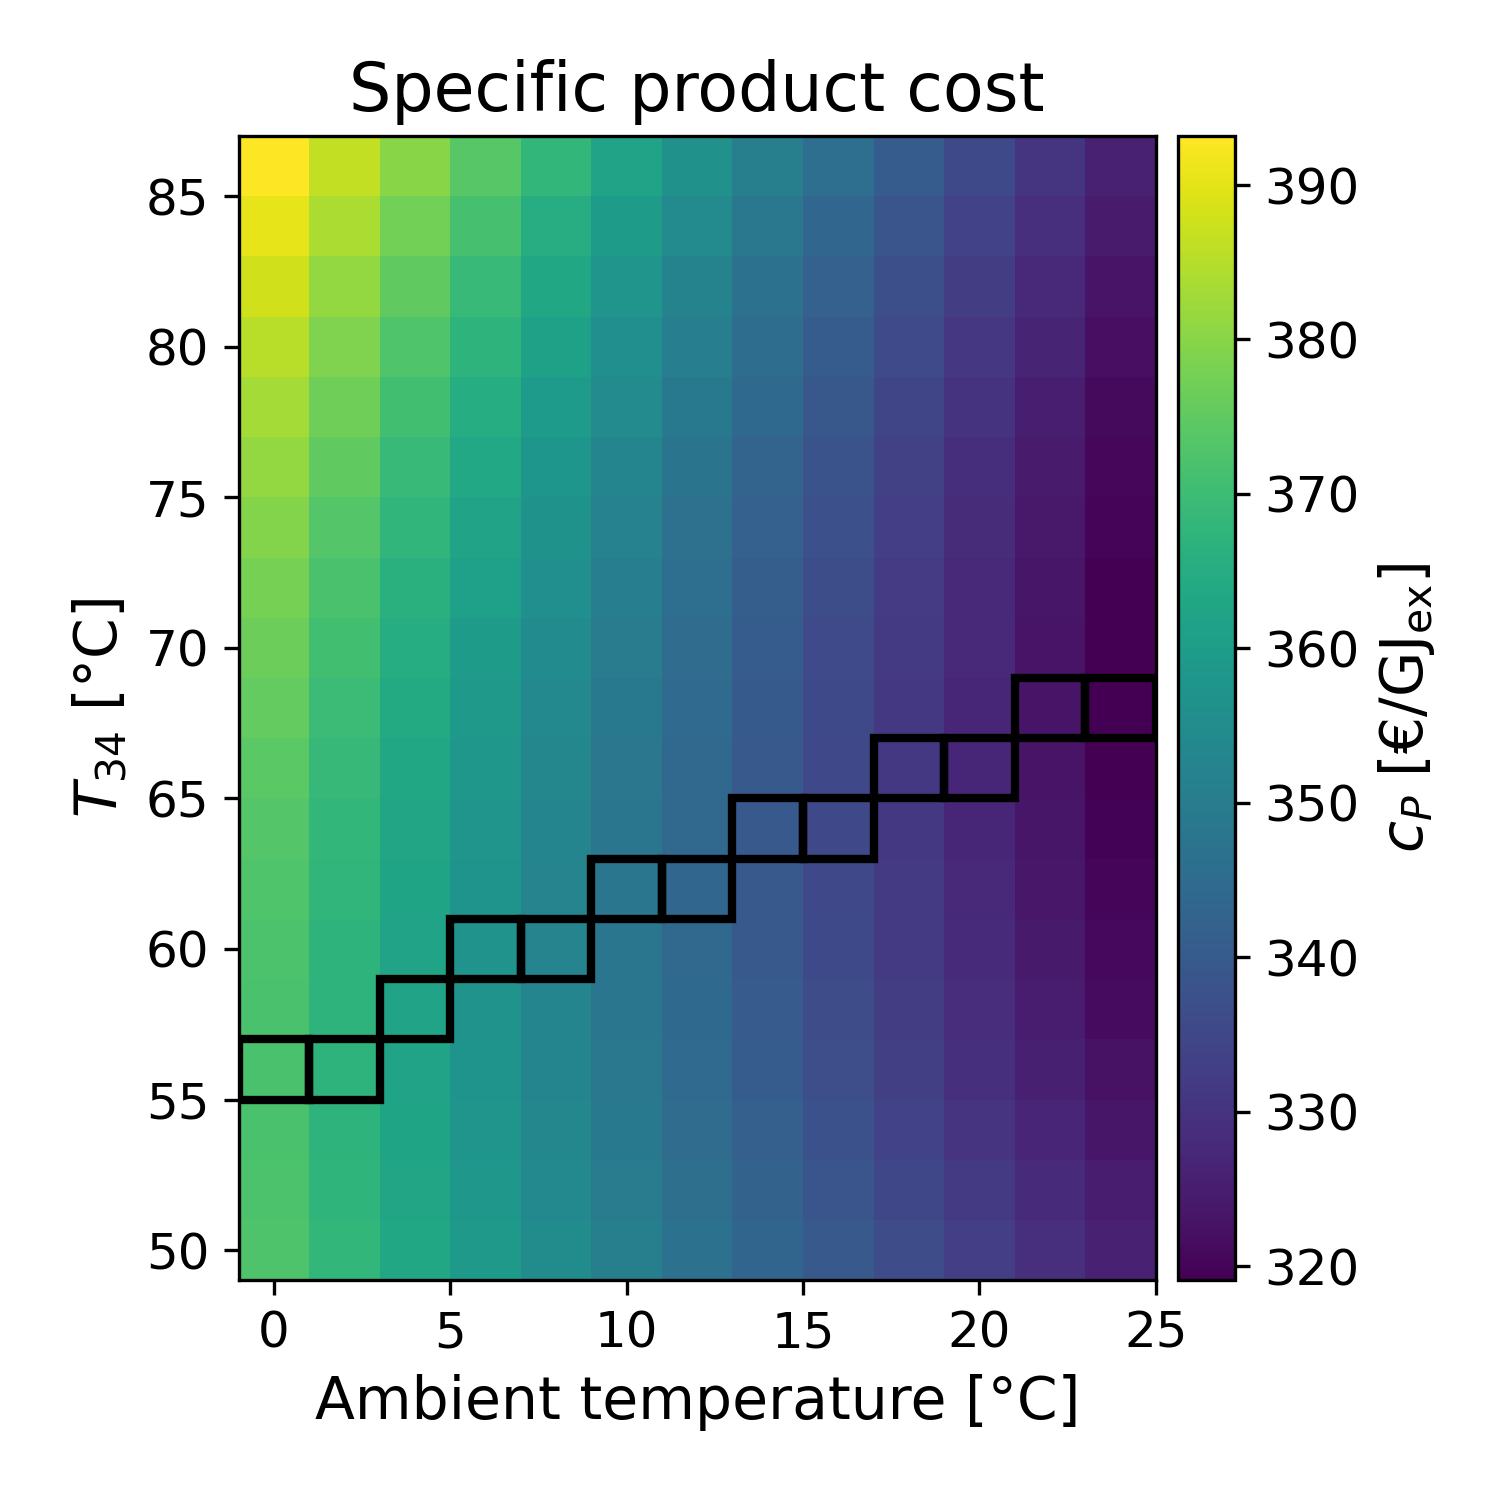
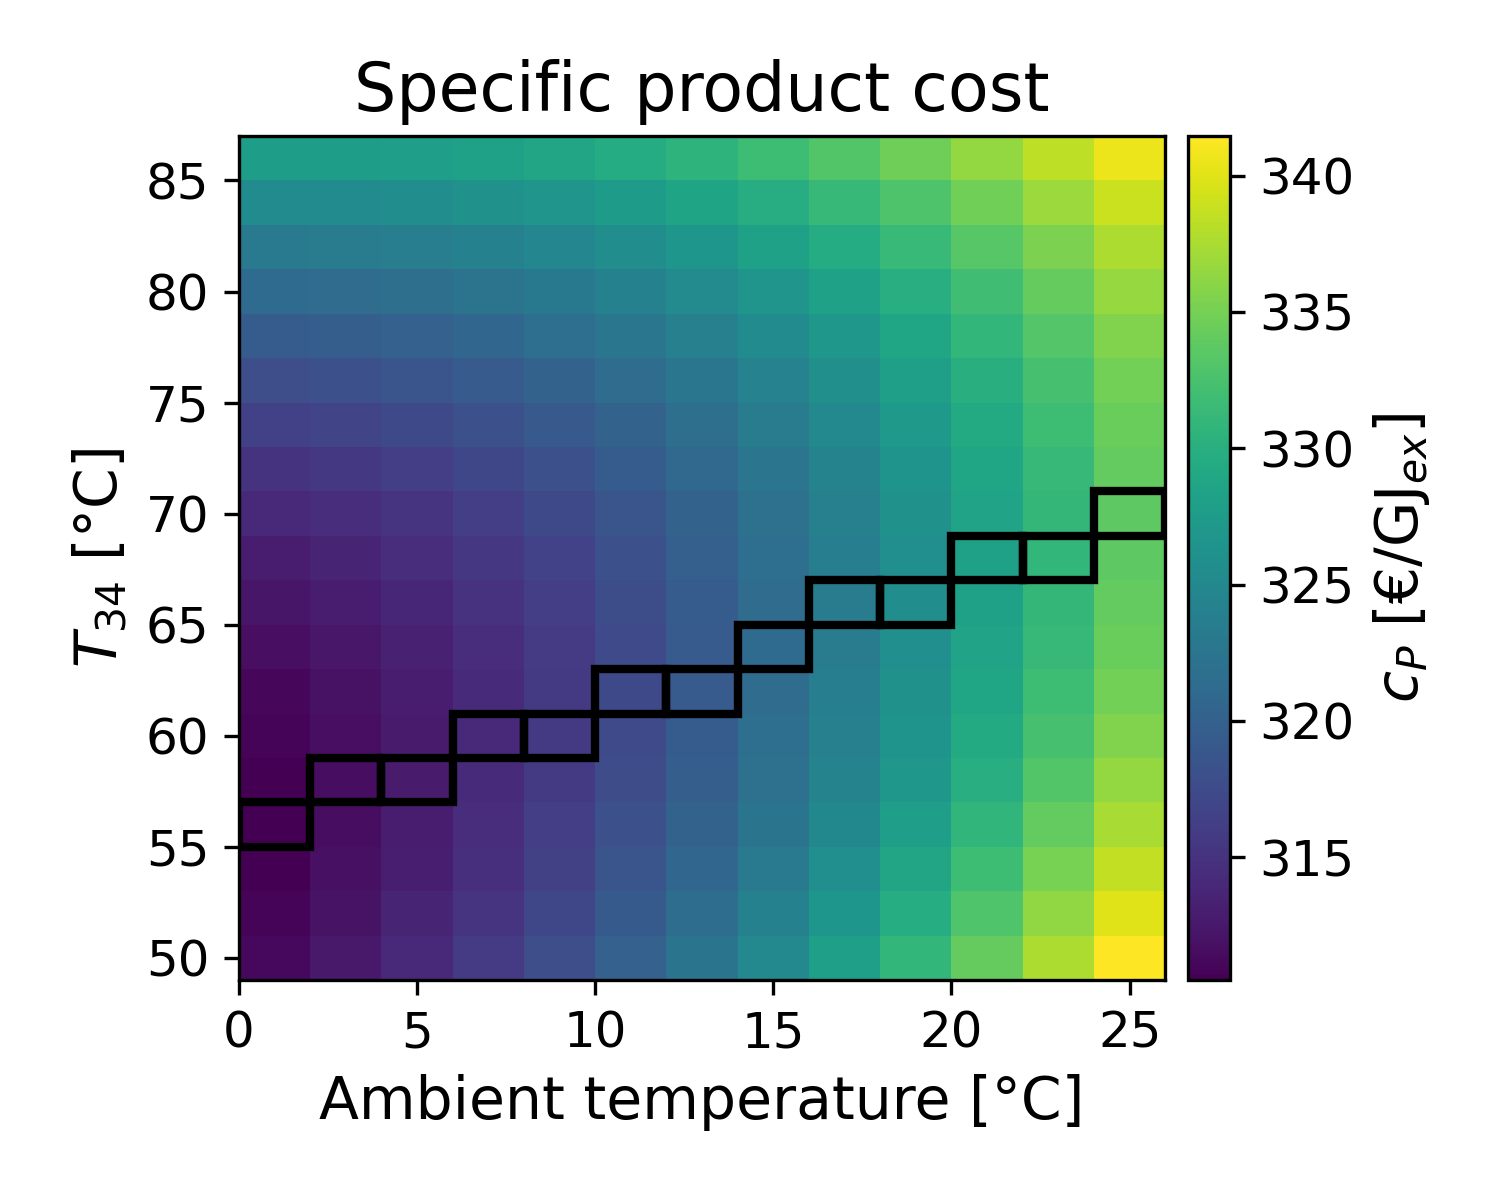
Feat: more plots for hightemp_hp

diff --git a/examples/hightemp_hp/hp_cascade_tespy.py b/examples/hightemp_hp/hp_cascade_tespy.py
@@ -34,13 +34,13 @@ mpl.rcParams['figure.titlesize']   = 18   # figure suptitle, if used
 component_colors = {
     # compressors (blue tones)
     "COMP1":      "#118cff",
-    "COMP2":      "#8bbeec",
+    "COMP2":      "#118cff",
     # motors (cyan tones)
     "MOT1":       "#ceb200",
-    "MOT2":       "#f5e57b",
+    "MOT2":       "#ceb200",
     # valves (orange tones)
     "VAL1":       "#009c63",
-    "VAL2":       "#73d4b1",
+    "VAL2":       "#009c63",
     # heat exchangers (green/red tones)
     "AIR_HX":     "#d3291d",
     "IHX":        "#e44f44",
@@ -48,7 +48,7 @@ component_colors = {
 }
 
 
-def run_exergoeco_analysis(elec_price_cent_kWh, tau, i_eff, print_results=False, **kwargs):
+def run_exergoeco_analysis(elec_price_cent_kWh, tau, i_eff, Tamb, print_results=False, **kwargs):
     """
     Reload the exergy analysis from the JSON file, calculate PEC (with cost correction),
     multiply PEC by 6.32 to obtain the Total Capital Investment (TCI), and run economic
@@ -64,7 +64,7 @@ def run_exergoeco_analysis(elec_price_cent_kWh, tau, i_eff, print_results=False,
         Full load hours (hours/year).
     """
     # Reload a virgin exergy analysis.
-    ean = ExergyAnalysis.from_tespy(nw, T0, p0, split_physical_exergy=True)
+    ean = ExergyAnalysis.from_tespy(nw, Tamb+273.15, pamb*1e5, split_physical_exergy=True)
 
     # Define exergy streams.
 
@@ -335,11 +335,11 @@ print("COP1 = ", round(COP1, 3))
 print("COP2 = ", round(COP2, 3))
 
 # assert convergence of calculation
-nw._convergence_check()
+# nw._convergence_check()
 
 # ambient conditions
-p0 = c11.p.val * 1e5
-T0 = c11.T.val + 273.15
+pamb = c11.p.val
+Tamb = c11.T.val
 
 # economic parameters
 # Define the CEPCI values for cost correction.
@@ -380,11 +380,12 @@ loss = {
 ####################################################
 
 # define range of evaporator outlet temperatures T34 [°C]
-SENS_VAR    = 'T34' # e.g. 'T34', 'tau', 'i_eff', 'elec_price', 'ambient temperature'
+SENS_VAR    = r'$T_{34}$' # e.g. f'T_{34}', 'tau', 'i_eff', 'elec_price', 'ambient temperature'
+SENS_VAR_savefig = 'T34'  # e.g. 'T34', 'tau', 'i_eff', 'elec_price', 'ambient temperature'
 SENS_VALUES = np.arange(50, 81, 2)  # the array of values you want to sweep
 
 def apply_sensitivity(var_name, value):
-    if var_name == 'T34':
+    if var_name == r'$T_{34}$':
         c34.set_attr(T=value)
     elif var_name == 'ambient temperature':
         c11.set_attr(T=value)
@@ -409,7 +410,8 @@ def run_sensitivity_analysis(var_name, values):
             elec_price_cent_kWh=default_elec_price,
             tau=default_tau,
             n=n,
-            i_eff=i_eff
+            i_eff=i_eff,
+            Tamb=Tamb,
         )
         # map our sensitivity keys to function args
         if 'elec_price' in extra_pars:
@@ -426,7 +428,7 @@ def run_sensitivity_analysis(var_name, values):
         COP   = c42.m.val * (c42.h.val - c41.h.val) / (power_input.P.val * 1e-3)
         COP2  = c42.m.val * (c42.h.val - c41.h.val) / (comp2.P.val     * 1e-3)
         COP1  = c31.m.val * (c31.h.val - c34.h.val) / (comp1.P.val     * 1e-3)
-        ean   = ExergyAnalysis.from_tespy(nw, T0, p0, split_physical_exergy=True)
+        ean   = ExergyAnalysis.from_tespy(nw, Tamb+273.15, pamb*1e5, split_physical_exergy=True)
         ean.analyse(E_F=fuel, E_P=product, E_L=loss)
         eps   = ean.epsilon
         EF_tot, EP_tot, EL_tot = ean.E_F, ean.E_P, ean.E_L
@@ -479,7 +481,7 @@ df = run_sensitivity_analysis(SENS_VAR, SENS_VALUES)
 # 3. Plots of Results
 #####################
 
-unit = {'T34':'[°C]', 'ambient temperature':'[°C]', 'tau':'[h/a]', 'i_eff':'[%/a]', 'elec_price':'[cent/kWh]'}[SENS_VAR]
+unit = {r'$T_{34}$':'[°C]', 'ambient temperature':'[°C]', 'tau':'[h/a]', 'i_eff':'[%/a]', 'elec_price':'[cent/kWh]'}[SENS_VAR]
 
 # 1. Interactive Plotly Line Chart
 
@@ -533,7 +535,7 @@ plt.ylabel(r'$\dot{Z}_{\text{tot}}/E_{P,\text{tot}}$ [€/GJ$_\mathrm{ex}$]')
 plt.title('Normalized investmenet costs and exergy destruction')
 plt.grid(True)
 plt.tight_layout()
-plt.savefig(f"examples/hightemp_hp/plots/plot_normalized_scatter_{SENS_VAR}.png", dpi=300)
+plt.savefig(f"examples/hightemp_hp/plots/plot_normalized_scatter_{SENS_VAR_savefig}.png", dpi=300)
 
 
 # 3. Stacked Bar Chart: Z per Component + COP Overlay
@@ -603,7 +605,7 @@ ax1.legend(
 )
 
 plt.tight_layout()
-plt.savefig(f"examples/hightemp_hp/plots/plot_investment_columns_{SENS_VAR}.png", dpi=300)
+plt.savefig(f"examples/hightemp_hp/plots/plot_investment_columns_{SENS_VAR_savefig}.png", dpi=300)
 
 
 # 4. 5×1 Vertical Multipanel: TCI & Metrics
@@ -617,25 +619,26 @@ cop1 = df["COP1"]
 cop2 = df["COP2"]
 cP_tot  = df["c_P"]
 zdz_tot = df["C_D+Z_EURperh_TOT"]  # combined Z + cost destruction
+epsilon = df["epsilon"]
 
 fig, axs = plt.subplots(5, 1, sharex=True, figsize=(5, 14))
 
-# (1) Investment costs of compressors
-axs[0].plot(t, tci1, marker="o", label="COMP1", color=component_colors["COMP1"])
-axs[0].plot(t, tci2, marker="s", label="COMP2", color=component_colors["COMP2"])
+# (1) Total investment cost
+axs[0].plot(t, tci_tot, marker="o", color='black')
 axs[0].set_ylabel("TCI [M€]")
-axs[0].set_title("Investment costs of the compressors")
-axs[0].legend(loc="best")
-min_val = min(tci1.min(), tci2.min())
-max_val = max(tci1.max(), tci2.max())
-axs[0].set_ylim(min_val * 0.95, max_val * 1.05)
+axs[0].set_title("Total capital investment")
+axs[0].set_ylim(tci_tot.min() * 0.99, tci_tot.max() * 1.01)
 axs[0].grid(True)
 
-# (2) Total investment cost
-axs[1].plot(t, tci_tot, marker="o", color='black')
+# (2) Investment costs of compressors
+axs[1].plot(t, tci1, marker="o", label="COMP1", color=component_colors["COMP1"])
+axs[1].plot(t, tci2, marker="s", label="COMP2", color=component_colors["COMP2"])
 axs[1].set_ylabel("TCI [M€]")
-axs[1].set_title("Total capital investment")
-axs[1].set_ylim(tci_tot.min() * 0.99, tci_tot.max() * 1.01)
+axs[1].set_title("Investment costs of the compressors")
+axs[1].legend(loc="best")
+min_val = min(tci1.min(), tci2.min())
+max_val = max(tci1.max(), tci2.max())
+axs[1].set_ylim(min_val * 0.95, max_val * 1.05)
 axs[1].grid(True)
 
 # (3) Exergetic efficiency (%)
@@ -655,10 +658,10 @@ axs[3].set_ylabel(r"$c_P$ [€/GJ$_\mathrm{ex}$]")
 axs[3].set_title("Specific product cost")
 axs[3].grid(True)
 
-# (5) Combined Z + cost destruction
-axs[4].plot(t, zdz_tot, marker="o", color='black')
-axs[4].set_ylabel(r"$\dot{Z} + \dot{C}_D$ [€/h]")
-axs[4].set_title(r"$\dot{Z} + \dot{C}_D$ of the system")
+# (5) epsilon
+axs[4].plot(t, epsilon*100, marker="o", color='black')
+axs[4].set_ylabel(r"$\varepsilon$ [%]")
+axs[4].set_title(r"Exergetic efficiency")
 axs[4].grid(True)
 
 # shared x-axis label with LaTeX subscript and degree symbol
@@ -666,7 +669,7 @@ axs[4].set_xlabel(f"{SENS_VAR} {unit}")
 axs[4].tick_params(axis="x", rotation=0)
 
 plt.tight_layout()
-plt.savefig(f"examples/hightemp_hp/plots/plot_multiplot_{SENS_VAR}.png", dpi=300)
+plt.savefig(f"examples/hightemp_hp/plots/plot_multiplot_{SENS_VAR_savefig}.png", dpi=300)
 
 
 # 5. Bar Chart of Exergy Destruction + ε Overlay
@@ -736,20 +739,20 @@ ax1.legend(
 )
 
 plt.tight_layout()
-plt.savefig(f"examples/hightemp_hp/plots/plot_ed_columns_{SENS_VAR}.png", dpi=300)
+plt.savefig(f"examples/hightemp_hp/plots/plot_ed_columns_{SENS_VAR_savefig}.png", dpi=300)
 
 
 '''# 6. Double‐Variable Sensitivity: ambient temperature vs. T34 c_P
 
 # define the two ranges (you can adjust the step or limits as desired)
-amb_range  = np.arange(0, 25, 2)   # ambient temperature [°C]
+amb_range  = np.arange(1, 26, 2)   # ambient temperature [°C]
 t34_range  = np.arange(50, 87, 2)   # T34 [°C]
 
 double_results = []
-for T_amb in amb_range:
+for Tamb in amb_range:
     for T34_val in t34_range:
         # 1) apply both changes
-        c11.set_attr(T=T_amb)
+        c11.set_attr(T=Tamb)
         c34.set_attr(T=T34_val)
 
         # 2) re‐solve the network
@@ -760,7 +763,8 @@ for T_amb in amb_range:
             elec_price_cent_kWh=default_elec_price,
             tau=default_tau,
             n=n,
-            i_eff=i_eff
+            i_eff=i_eff,
+            Tamb=Tamb
         )
         df_comp, *_ = run_exergoeco_analysis(**pars, print_results=False)
 
@@ -773,9 +777,10 @@ for T_amb in amb_range:
 
         # 5) record
         double_results.append({
-            'ambient_temp': T_amb,
+            'ambient_temp':  Tamb,
             'T34':           T34_val,
-            'c_P':           cP_tot
+            'c_P':           cP_tot,
+            'epsilon':       df_comp.loc[df_comp['Component']=='TOT', 'ε [%]'].iloc[0]
         })
 
 # assemble into a DataFrame
@@ -788,7 +793,7 @@ pivot = df_double.pivot(index='T34', columns='ambient_temp', values='c_P')
 X, Y = np.meshgrid(pivot.columns.values, pivot.index.values)
 Z     = pivot.values
 
-fig, ax = plt.subplots(figsize=(5,5))
+fig, ax = plt.subplots(figsize=(5,4))
 pcm = ax.pcolormesh(X, Y, Z, shading='auto')
 plt.colorbar(pcm, label=r"$c_P$ [€/GJ$_{ex}$]", pad=0.02)
 
@@ -819,7 +824,51 @@ ax.set_xlabel('Ambient temperature [°C]')
 ax.set_ylabel(r'$T_{34}$ [°C]')
 
 plt.tight_layout()
-plt.savefig("examples/hightemp_hp/plots/heatmap_double_sensitivity_with_minima.png", dpi=300)'''
+plt.savefig("examples/hightemp_hp/plots/heatmap_double_sensitivity_with_minima.png", dpi=300)
+
+# --- Build epsilon‐pivot ---
+# (make sure you collected 'epsilon' for each (Tamb, T34) in double_results)
+pivot_eps = df_double.pivot(index='T34', columns='ambient_temp', values='epsilon')
+
+# Meshgrid for plotting
+X_eps, Y_eps = np.meshgrid(pivot_eps.columns.values, pivot_eps.index.values)
+Z_eps     = pivot_eps.values   # convert to percent
+
+# --- Plot ε heatmap ---
+fig, ax = plt.subplots(figsize=(5,4))
+pcm = ax.pcolormesh(X_eps, Y_eps, Z_eps, shading='auto')
+cbar = plt.colorbar(pcm, ax=ax, pad=0.02)
+
+# find the index of the max in each column
+max_row_indices = np.nanargmax(Z_eps, axis=0)
+
+# compute one cell's width & height
+cell_width  = pivot_eps.columns.values[1] - pivot_eps.columns.values[0]
+cell_height = pivot_eps.index.values[1]   - pivot_eps.index.values[0]
+
+# draw a rectangle around each maximal cell
+for col_idx, row_idx in enumerate(max_row_indices):
+    # lower-left corner of that cell
+    x0 = pivot_eps.columns.values[col_idx] - cell_width/2
+    y0 = pivot_eps.index.values[row_idx]   - cell_height/2
+    
+    rect = patches.Rectangle(
+        (x0, y0),
+        cell_width, cell_height,
+        fill=False,
+        edgecolor='black',  
+        linewidth=2
+    )
+    ax.add_patch(rect)
+
+cbar.set_label(r"$\varepsilon$ [%]")
+
+ax.set_title('Exergetic efficiency')
+ax.set_xlabel('Ambient temperature [°C]')
+ax.set_ylabel(r'$T_{34}$ [°C]')
+
+plt.tight_layout()
+plt.savefig("examples/hightemp_hp/plots/heatmap_double_sensitivity_epsilon.png", dpi=300)'''
 
 # 7. Combined Figure: Z + Exergy Destruction + Efficiencies
 
@@ -874,16 +923,13 @@ fig, (ax_z, ax_ed) = plt.subplots(
     sharex=True,
     gridspec_kw={"height_ratios": [1, 1]}
 )
-
-# Add overall title
 fig.suptitle("Capital cost and exergy destruction of the components", fontsize=14)
-# adjust layout to make room for title
 plt.tight_layout(rect=[0, 0, 1, 0.95])
 
 x = np.arange(len(plot_df_z))
 bar_width = 0.8
 
-# ---- Top: Z + COP ----
+# Top: Z stacked bars
 plot_df_z.plot(
     kind="bar", stacked=True,
     ax=ax_z, width=bar_width,
@@ -892,20 +938,7 @@ plot_df_z.plot(
 )
 ax_z.set_ylabel(r"$\dot{Z}$ [€/h]")
 
-# draw black separators at VAL1→IHX boundary
-cumsum_ed = plot_df_z.cumsum(axis=1)
-if "MOT1" in cumsum_ed.columns:
-    y_vals = cumsum_ed["MOT1"]
-    for xi, yi in zip(x, y_vals):
-        ax_z.hlines(yi,
-                     xi - bar_width/2 + 0.02,
-                     xi + bar_width/2 - 0.02,
-                     color="black",
-                     linestyle="--",
-                     linewidth=1,
-                     zorder=5)
-
-# ---- Bottom: Exergy destruction + ε ----
+# Bottom: Exergy destruction stacked bars
 plot_df_ed.plot(
     kind="bar", stacked=True,
     ax=ax_ed, width=bar_width,
@@ -915,34 +948,37 @@ plot_df_ed.plot(
 ax_ed.set_xlabel(f"{SENS_VAR} {unit}")
 ax_ed.set_ylabel(r"$\dot{E}_D$ [kW]")
 
-# draw black separators at VAL1→IHX boundary
-cumsum_ed = plot_df_ed.cumsum(axis=1)
-if "VAL1" in cumsum_ed.columns:
-    y_vals = cumsum_ed["VAL1"]
-    for xi, yi in zip(x, y_vals):
-        ax_ed.hlines(yi,
-                     xi - bar_width/2 + 0.02,
-                     xi + bar_width/2 - 0.02,
-                     color="black",
-                     linestyle="--",
-                     linewidth=1,
-                     zorder=5)
-
-# X-axis ticks only on bottom
 ax_ed.set_xticks(x)
 ax_ed.set_xticklabels(plot_df_z.index.astype(str), rotation=0)
 
-# ---- Legend from lower plot ----
-bars, bar_labels = ax_ed.get_legend_handles_labels()
+# Hatch patterns for cycle highlighting
+pattern_map = {
+    'AIR_HX': '///', 'COMP1': '///', 'MOT1': '///', 'VAL1': '///',
+    'COMP2': '...', 'MOT2': '...', 'VAL2': '...', 'STEAM_GEN': '...'
+}
 
-handles = (bars)[::-1]
-labels  = (bar_labels)[::-1]
+# Apply hatches on top plot
+n_z = len(plot_df_z)
+for i, comp in enumerate(plot_df_z.columns):
+    hatch = pattern_map.get(comp, '')
+    for j in range(n_z):
+        ax_z.patches[i * n_z + j].set_hatch(hatch)
+
+# Apply hatches on bottom plot
+n_ed = len(plot_df_ed)
+for i, comp in enumerate(plot_df_ed.columns):
+    hatch = pattern_map.get(comp, '')
+    for j in range(n_ed):
+        ax_ed.patches[i * n_ed + j].set_hatch(hatch)
+
+# Legend (from bottom, reversed)
+handles, labels = ax_ed.get_legend_handles_labels()
 ax_z.legend(
-    handles, labels,
+    handles[::-1], labels[::-1],
     title="Component",
     bbox_to_anchor=(1.01, 0.5),
     loc="center left"
 )
 
 plt.tight_layout()
-plt.savefig(f"examples/hightemp_hp/plots/combined_Z_ED_{SENS_VAR}.png", dpi=300)
+plt.savefig(f"examples/hightemp_hp/plots/combined_Z_ED_{SENS_VAR_savefig}.png", dpi=300)
